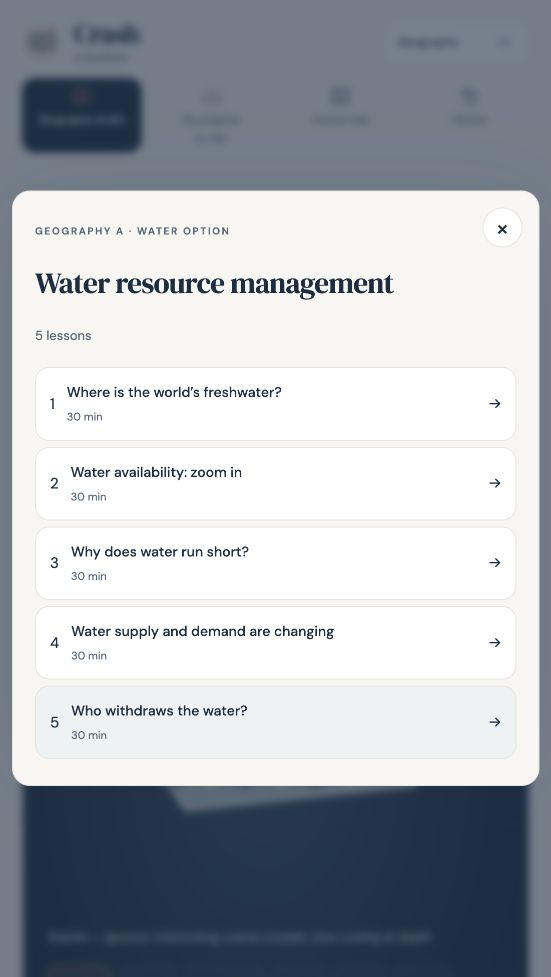
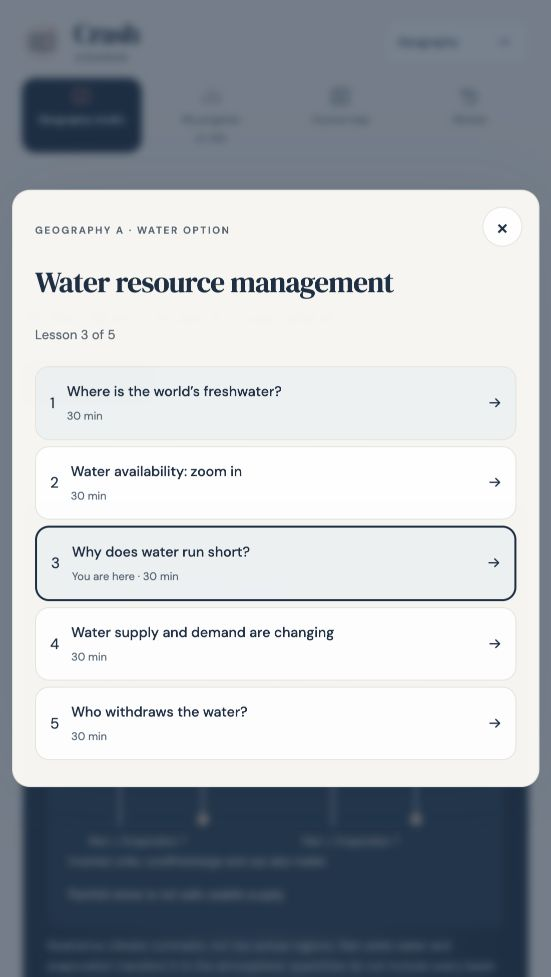
Preserve concurrent History updates in published Water release

diff --git a/science-app/dist/index.html b/science-app/dist/index.html
@@ -1,9 +1,9 @@
 <!doctype html><html lang="en"><head><meta charset="utf-8"><meta name="viewport" content="width=device-width,initial-scale=1"><meta name="theme-color" content="#f8f6f2"><title>Crash Course</title><link rel="stylesheet" href="style.css?v=20261023-geography01"><link rel="stylesheet" href="family.css?v=20261028-water01"><link rel="stylesheet" href="maths/maths.css?v=20261023-geography01">
-<link rel="stylesheet" href="history/history.css?v=20261023-history01"></head><body>
+<link rel="stylesheet" href="history/history.css?v=20261028-history04"></head><body>
 <aside class="sidebar"><a class="brand" href="./" aria-label="Crash Course home"><svg class="brand-mark" width="44" height="44" viewBox="0 0 44 44" fill="none" aria-hidden="true"><circle cx="22" cy="22" r="21" fill="#F5E5DC"/><path d="M10.5 15.5C14.5 13.5 18.5 14 22 16.5C25.5 14 29.5 13.5 33.5 15.5V30C29.5 28 25.5 28.5 22 31C18.5 28.5 14.5 28 10.5 30V15.5Z" stroke="#182E44" stroke-width="1.8" stroke-linecap="round" stroke-linejoin="round"/><path d="M22 16.5V31M15 19.5C16.5 19.3 17.5 19.6 19 20.3M15 23.5C16.5 23.3 17.5 23.6 19 24.3" stroke="#182E44" stroke-width="1.5" stroke-linecap="round"/><path d="M28 18.5V25" stroke="#CA715F" stroke-width="2" stroke-linecap="round"/><circle cx="33" cy="9" r="2.5" fill="#ED8B78"/></svg><span class="brand-wordmark"><span>Crash</span><span>Course</span></span></a><label class="subject-label" for="subject">Subject</label><select id="subject" class="subject-select"><option value="science">Science</option><option value="maths">Maths</option><option value="english-language">English Language</option><option value="english-literature">English Literature</option><option value="history">History</option><option value="geography">Geography</option></select><button class="nav active" id="lessonNav"><svg class="nav-icon" viewBox="0 0 24 24" fill="none" stroke="currentColor" stroke-width="1.6" stroke-linecap="round" stroke-linejoin="round" aria-hidden="true"><path d="M12 5C9 3 5 3 3 4v15c3-1 6-1 9 1 3-2 6-2 9-1V4c-2-1-6-1-9 1zM12 5v15"/></svg><span id="studioLabel">Science studio</span><span class="nav-count">01</span></button><button class="nav" id="progressButton"><svg class="nav-icon" viewBox="0 0 24 24" fill="none" stroke="currentColor" stroke-width="1.6" stroke-linecap="round" aria-hidden="true"><path d="M4 20V12M12 20V4M20 20V8"/></svg><span>My progress</span><small id="progressBadge">0 / 0</small></button><button class="nav" id="mapButton"><svg class="nav-icon" viewBox="0 0 24 24" fill="none" stroke="currentColor" stroke-width="1.6" stroke-linecap="round" stroke-linejoin="round" aria-hidden="true"><path d="M3 5l6-2 6 2 6-2v16l-6 2-6-2-6 2V5zM9 3v16M15 5v16"/></svg><span>Course map</span></button><button class="nav" id="reviewButton"><svg class="nav-icon" viewBox="0 0 24 24" fill="none" stroke="currentColor" stroke-width="1.6" stroke-linecap="round" stroke-linejoin="round" aria-hidden="true"><path d="M4 10a8 8 0 1 1 1 8M4 4v6h6M12 8v5l3 2"/></svg><span>Review</span><span id="reviewCount" class="nav-count">0</span></button><button class="nav" id="assessmentButton"><svg class="nav-icon" viewBox="0 0 24 24" fill="none" stroke="currentColor" stroke-width="1.6" stroke-linecap="round" stroke-linejoin="round" aria-hidden="true"><rect x="5" y="4" width="14" height="17" rx="2"/><path d="M9 4V2h6v2M8 12l2 2 5-5M8 18h8"/></svg><span>Topic assessment</span></button><div class="side-course"><h3 id="courseName">AQA GCSE Science</h3><label for="route">Your pathway</label><select id="route"><option value="combined">Combined · Trilogy</option><option value="separate">Separate sciences</option></select><select id="tier" aria-label="Tier"><option>Foundation</option><option>Higher</option></select><div class="progress-label"><span id="progressLabel">Topic progress</span><span id="sideProgress">0 / 4</span></div><div class="progress-track"><i id="progressFill"></i></div></div><div class="side-bottom"><button class="text-button" id="reset">Reset lesson</button></div></aside>
 <main><header><div class="breadcrumb">Science <span>/</span> Chemistry <span>/</span> Atomic structure</div><span class="save-status" id="saveStatus">Saved on this device</span></header><div id="plannedSubject" hidden></div><div id="scienceContent"><section class="intro"><div><div class="eyebrow"><span id="studioName" hidden>ATOMIC STRUCTURE STUDIO</span> <span class="intro-number" id="lessonNumber">LESSON 01</span></div><h1></h1><p hidden></p></div><div class="lesson-meta" id="lessonMeta"><span>CHEMISTRY · FIRST PRINCIPLES</span><p>Atoms, elements<br>& compounds</p><div>◷ 15–20 min <span>•</span> Both tiers</div></div></section>
 <div class="topic-toolbar"><label for="topic">Chemistry topic</label><select id="topic" class="lab-select"></select></div><div class="lesson-toolbar"><button class="text-button" id="lessonsButton" aria-haspopup="dialog" aria-controls="modal">Lessons</button><span id="lessonStatus">Ready to explore</span><button class="text-button" id="nextLessonButton">Next lesson →</button></div><nav class="steps" aria-label="Lesson stages"><button data-stage="0" class="selected"><b>01</b> Discover <span hidden></span></button><button data-stage="1"><b>02</b> Investigate <span hidden></span></button><button data-stage="2"><b>03</b> Practise <span hidden></span></button><button data-stage="3"><b>04</b> Check <span hidden></span></button></nav>
 <section class="workspace"><div class="scene-panel"><div class="scene-top"><span class="live-pill"><i></i> INTERACTIVE 3D</span><button id="viewToggle" class="scene-button">2D diagram ↗</button></div><div id="modelViewControls" class="model-view-controls" hidden><button id="zoomIn" aria-label="Zoom in">+</button><button id="zoomOut" aria-label="Zoom out">−</button><button id="resetView" aria-label="Reset model view">Reset view</button></div><div id="scene" tabindex="0" role="img" aria-label="Interactive particle model. Drag to rotate, use arrow keys to rotate, plus or minus to zoom."></div><div id="diagram" hidden></div><div class="scene-title"><span id="sceneKicker" hidden>ONE TYPE OF ATOM</span><h2 id="sceneName">Oxygen</h2><span id="sceneFormula">O₂</span></div><div class="scene-bottom"><span>↔ Drag to rotate <span class="separator">·</span> + / − to zoom</span><button class="scene-button" id="rotateToggle" aria-pressed="false">Stop rotation Ⅱ</button></div><button class="model-note text-button" id="modelNotesButton">Model notes</button></div>
 <article class="activity"><div class="eyebrow" id="activityKicker">01 / EXPLORE</div><h2 id="activityTitle">A world made of atoms.</h2><div id="activityBody"></div><div id="feedback" role="status" aria-live="polite"></div><div class="activity-footer"><span id="stageHint">Explore at your own pace</span><button class="primary" id="continue">Continue <span>→</span></button></div></article><div id="scienceEvidence"></div></section>
 <section class="below"><details class="lesson-summary"><summary>Key idea</summary><p id="bigIdea"></p></details><span class="spec" id="specRef" hidden></span></section></div><div id="mathsContent" hidden></div><div id="geographyContent" hidden></div><div id="historyContent" hidden></div><footer><button class="text-button" id="sourceButton">Sources & model notes</button></footer></main>
-<dialog id="modal"><button id="closeModal" aria-label="Close dialog">×</button><div id="modalBody"></div></dialog><script type="module" src="app.js?v=20261028-water01"></script></body></html>
+<dialog id="modal"><button id="closeModal" aria-label="Close dialog">×</button><div id="modalBody"></div></dialog><script type="module" src="app.js?v=20261028-water01-sync"></script></body></html>

diff --git a/science-app/dist/history/content.js b/science-app/dist/history/content.js
@@ -1,9 +1,9 @@
 // Pearson Edexcel GCSE (9–1) History (1HI0). Built units are listed here; the course map shows only
 // topics that have lessons.
-import {elizabethTopic1, elizabethLessons1} from './content-elizabeth1.js?v=20261023-history01';
-import {elizabethTopic2, elizabethLessons2} from './content-elizabeth2.js?v=20261023-history01';
-import {elizabethTopic3, elizabethLessons3} from './content-elizabeth3.js?v=20261023-history01';
-import {coldwarTopic1, coldwarLessons1} from './content-coldwar1.js?v=20261023-history01';
+import {elizabethTopic1, elizabethLessons1} from './content-elizabeth1.js?v=20261028-history04';
+import {elizabethTopic2, elizabethLessons2} from './content-elizabeth2.js?v=20261028-history04';
+import {elizabethTopic3, elizabethLessons3} from './content-elizabeth3.js?v=20261028-history04';
+import {coldwarTopic1, coldwarLessons1} from './content-coldwar1.js?v=20261028-history04';
 export const source = 'https://qualifications.pearson.com/content/dam/pdf/GCSE/History/2016/specification-and-sample-assessments/gcse-9-1-history-specification.pdf';
 export const specIssue = 'Issue 6, June 2024';
 export const units = [

diff --git a/science-app/dist/history/studio.js b/science-app/dist/history/studio.js
@@ -2,7 +2,7 @@
 // Discover (cards), Investigate (open every view of the evidence explorer and answer the challenges,
 // including exam-skill challenges), Practise (retry until correct, with explanations) and Check
 // (first answers count; 80% completes the lesson). Missed concepts return in recall review.
-import {lessons, topics, units, source, specIssue} from './content.js?v=20261023-history01';
+import {lessons, topics, units, source, specIssue} from './content.js?v=20261028-history04';
 import {questionFlow, cancelQuestionAdvance} from '../question-flow.js?v=20261023-flow01';
 import {recordConcept, dueConcepts} from '../progress.js?v=20261028-subjects01';
 import {summarise} from '../progress-summary.js?v=20261023-mastery01';

diff --git a/science-app/dist/app.js b/science-app/dist/app.js
@@ -1,5 +1,5 @@
 import {explanationPhoto} from './science-references.js?v=20261024-lessonlayout03';
-import {createGeographyStudio} from './geography/studio.js?v=20261028-water01';import {createHistoryStudio} from './history/studio.js?v=20261023-history01';
+import {createGeographyStudio} from './geography/studio.js?v=20261028-water01';import {createHistoryStudio} from './history/studio.js?v=20261028-history04';
 import {scienceSummary} from './progress-summary.js?v=20261023-mastery01';
 import {dashboardHTML} from './mastery-dashboard.js?v=20261023-mastery01';
 import {cancelQuestionAdvance,questionFlow} from './question-flow.js?v=20261023-flow01';

diff --git a/science-app/dist/history/content-elizabeth3.js b/science-app/dist/history/content-elizabeth3.js
@@ -1,7 +1,7 @@
 // Pearson Edexcel GCSE (9–1) History 1HI0, Option B4: Early Elizabethan England, 1558–88.
 // Key topic 3: Elizabethan society in the Age of Exploration, 1558–88 (specification 3.1–3.4).
 // All teaching text and questions are original; documents are described, never quoted.
-import {Q, lesson, view} from './build.js?v=20261023-history01';
+import {Q, lesson, view} from './build.js?v=20261028-history04';
 
 export const elizabethTopic3 = {id: 'history.elizabeth.kt3', unit: 'B4', title: 'Elizabethan society in the Age of Exploration, 1558–88', paper: 'Paper 2 · British depth study'};
 const T = elizabethTopic3.id;

diff --git a/science-app/dist/history/content-coldwar1.js b/science-app/dist/history/content-coldwar1.js
@@ -1,7 +1,7 @@
 // Pearson Edexcel GCSE (9–1) History 1HI0, Paper 2 period study, Option P4: Superpower relations
 // and the Cold War, 1941–91. Key topic 1: The origins of the Cold War, 1941–58 (specification
 // 1.1–1.3). All teaching text and questions are original; documents are described, never quoted.
-import {Q, lesson, view} from './build.js?v=20261023-history01';
+import {Q, lesson, view} from './build.js?v=20261028-history04';
 
 export const coldwarTopic1 = {id: 'history.coldwar.kt1', unit: 'P4', title: 'The origins of the Cold War, 1941–58', paper: 'Paper 2 · Period study'};
 const T = coldwarTopic1.id;

diff --git a/science-app/dist/history/content-elizabeth1.js b/science-app/dist/history/content-elizabeth1.js
@@ -2,7 +2,7 @@
 // England, 1558–88. Key topic 1: Queen, government and religion, 1558–69 (specification 1.1–1.4).
 // All teaching text and questions are original. Documents are described by type, author, date and
 // content; no quotation is invented or attributed to a real person.
-import {Q, lesson, view} from './build.js?v=20261023-history01';
+import {Q, lesson, view} from './build.js?v=20261028-history04';
 
 export const elizabethTopic1 = {id: 'history.elizabeth.kt1', unit: 'B4', title: 'Queen, government and religion, 1558–69', paper: 'Paper 2 · British depth study'};
 const T = elizabethTopic1.id;

diff --git a/science-app/dist/history/content-elizabeth2.js b/science-app/dist/history/content-elizabeth2.js
@@ -2,7 +2,7 @@
 // Key topic 2: Challenges to Elizabeth at home and abroad, 1569–88 (specification 2.1–2.4).
 // Dates are those used in English accounts of the time (Old Style). All teaching text and questions
 // are original; documents are described, never quoted.
-import {Q, lesson, view} from './build.js?v=20261023-history01';
+import {Q, lesson, view} from './build.js?v=20261028-history04';
 
 export const elizabethTopic2 = {id: 'history.elizabeth.kt2', unit: 'B4', title: 'Challenges at home and abroad, 1569–88', paper: 'Paper 2 · British depth study'};
 const T = elizabethTopic2.id;

diff --git a/BUILD_STATUS.md b/BUILD_STATUS.md
@@ -2,7 +2,7 @@
 
 28 October 2026. Added freshwater distribution (6.8a), availability at global/national/local scales (6.8b), surplus and deficit (6.8c), changing supply/demand (6.8d), and sector proportions (6.9a). Geography now has **150 lessons across 11 built topics**, 450 practice questions and 600 checks. Remaining authoring plan: **39 lessons** = 9 Water + 11 UK challenges + 9 fieldwork + 10 skills. This plan is not a qualification-completion or specialist-review claim.
 
-Water has 5 lessons, with eligible pathway totals 122 coasts+rivers / 125 coasts+glaciers / 126 rivers+glaciers. Energy remains 131 / 134 / 135. Existing planned lesson rows were converted in place; stable lesson/question/concept IDs, resourceOption eligibility and version1 saved progress are preserved. App total is 596 = 361 Science + 73 Maths + 150 Geography + 12 History.
+Water has 5 lessons, with eligible pathway totals 122 coasts+rivers / 125 coasts+glaciers / 126 rivers+glaciers. Energy remains 131 / 134 / 135. Existing planned lesson rows were converted in place; stable lesson/question/concept IDs, resourceOption eligibility and version1 saved progress are preserved. App total is 600 = 361 Science + 73 Maths + 150 Geography + 16 History, following the final main integration.
 
 Models: 20 views, comprising 8 process loops and 12 static evidence/framework views. Recharge and pumping, source-to-tap delivery, rainfall/evaporation, storage, usable supply/demand, transfers and conditional population pressure have meaningful motion. Falling aquifer water level and explicit evaporation transfer were checked in the final refinement. Processes open inline with autoplay/Loop; charts and maps remain still. Replay resets the example, not nature. No photograph adds to these data/mechanism objectives.
 
@@ -15,6 +15,8 @@ GitHub integration: four newer History commits were fast-forwarded before releas
 Published at07:32:58UTC to https://gcse-science-atom-lab.anaxied.chatgpt.site, preserving owner-private audience. Source 7d317b4d65b44bae0a08daacca027f630e57ed1f; deployment appgdep_6ae1a51eae448191a2ae113236652680; version appgprj_6ad1be5897a88191909a03ad57857103~appgver_b9451cc39098819194a6c743194230ed; native status succeeded. All615 packaged runtime files match local hashes. Archive science-app-water01.tar.gz is ignored. Matching local UI and authenticated production DOM verified: newcacheversion,150exploretotal,Water5lessonlist andsurplus-deficit defaultPause+Loopchecked. Proofcrash-course-geography-water01-live.png. Canonical GitHub main sync follows, with exact remote SHA/clean status verified before reporting completion. History rows now distinguish this hosting publication from their earlier GitHub-only status.
 
 Files: curriculum/briefs/geography-a-water-01.md; curriculum/geography-a-water01-coverage.csv; science-app/geography-water01-browser-evidence.json; crash-course-geography-water01-preview.png. UK supply/demand/stress maps, full-world map depth, projection-range/water-supply evidence, extended writing/GIS construction, assistive-device checks, physical fieldwork and specialist review remain open. Next five:6.9b use differences;6.10a UK supply;6.10b emerging/developing supply;6.11a stakeholders;6.11b desalination. Exact briefs and primary evidence first.
+
+Final concurrent-main reconciliation: a fifth History commit85e7aa2 (ColdWar keytopic1) arrived during push;rebased without force, preserving16Historylessons/4topics. Combined full763checks passed39.39s;localHistory16render andWater5Completed verified. History imports and app entry cache bumped. Final matching release published07:38:11UTC: source5f1aca5774053828a6b1718749a786fce0933690;deploymentappgdep_6ae1a6563ae88191af28081a4d963f1f;versionappgprj_6ad1be5897a88191909a03ad57857103~appgver_e597b235ef6c8191b8f107306a27e8fa;native succeeded;616runtimehashesmatch;archive science-app-water01-sync.tar.gz ignored. Authenticated finalDOM confirms water01-sync cache,WaterlessonPause+Loopchecked,History16total andfiveWaterlessonlist. All16Historyhostingstatuses updated;no newHistoryspecialistreview claim. Raw source snapshot whitespace deliberately preserved;code/docs whitespace check excludes these verbatim captures.
 
 ## History: Cold War key topic 1 (4 lessons, P4 1.1–1.3); on GitHub `main`, not published
 

diff --git a/BUILD_PLAN.md b/BUILD_PLAN.md
@@ -1,6 +1,6 @@
 ## Current handover —28 October 2026 Water01
 
-Five Water-option lessons implemented:6.8a/b/c/d and6.9a.150Geography across11topics;39planned remain9Water11UKchallenges9fieldwork10skills.763combinedfulltechnicaltests after mainHistory integration;99focused;five100%UIjourneys,wrong/retry/resume,20phoneviews andWater/Energy progressretention checked. See BUILD_STATUS and geography-water01-browser-evidence.json. Published28Oct2026 at07:32:58UTC, owner-private unchanged;source7d317b4d;canonicalmainpush follows. Next6.9b;6.10aUK;6.10bdeveloping/emerging;6.11astakeholders;6.11bdesalination. Use exactbriefs andprimaryevidence;processautoplay/Loop,staticdata/maps;preserve scopes andsavedIDs. Specialist/constructed/GIS/physicalfieldwork andUK/fullworldwatermap depthremainopen.
+Five Water-option lessons implemented:6.8a/b/c/d and6.9a.150Geography across11topics;39planned remain9Water11UKchallenges9fieldwork10skills.763combinedfulltechnicaltests after mainHistory integration;99focused;five100%UIjourneys,wrong/retry/resume,20phoneviews andWater/Energy progressretention checked. See BUILD_STATUS and geography-water01-browser-evidence.json. Published28Oct2026 at07:32:58UTC, owner-private unchanged;finalsource5f1aca57 after concurrentHistory85e7aa2 integration (16Historylessons preserved);763fullchecks39.39s;finalpublication07:38:11UTC;canonicalmainpush follows. Next6.9b;6.10aUK;6.10bdeveloping/emerging;6.11astakeholders;6.11bdesalination. Use exactbriefs andprimaryevidence;processautoplay/Loop,staticdata/maps;preserve scopes andsavedIDs. Specialist/constructed/GIS/physicalfieldwork andUK/fullworldwatermap depthremainopen.
 
 > Energy03:145Geographylessons;Energy14introduces6.3–6.7teaching;20views10loops10static.44plannedremaining(14Water11UKchallenges9fieldwork10skills). ActualQA/publication/28Octbrowserlimit inBUILD_STATUS.md. Next five:Water6.8a distribution;6.8b availability scales;6.8c surplus/deficit;6.8d changing supply/demand;6.9a sector use. Exact briefs and primary evidence first.44planned remain:14Water11UKchallenges9fieldwork10skills. Energy extended/GIS/footprint and specialist evidence remain open.
 
